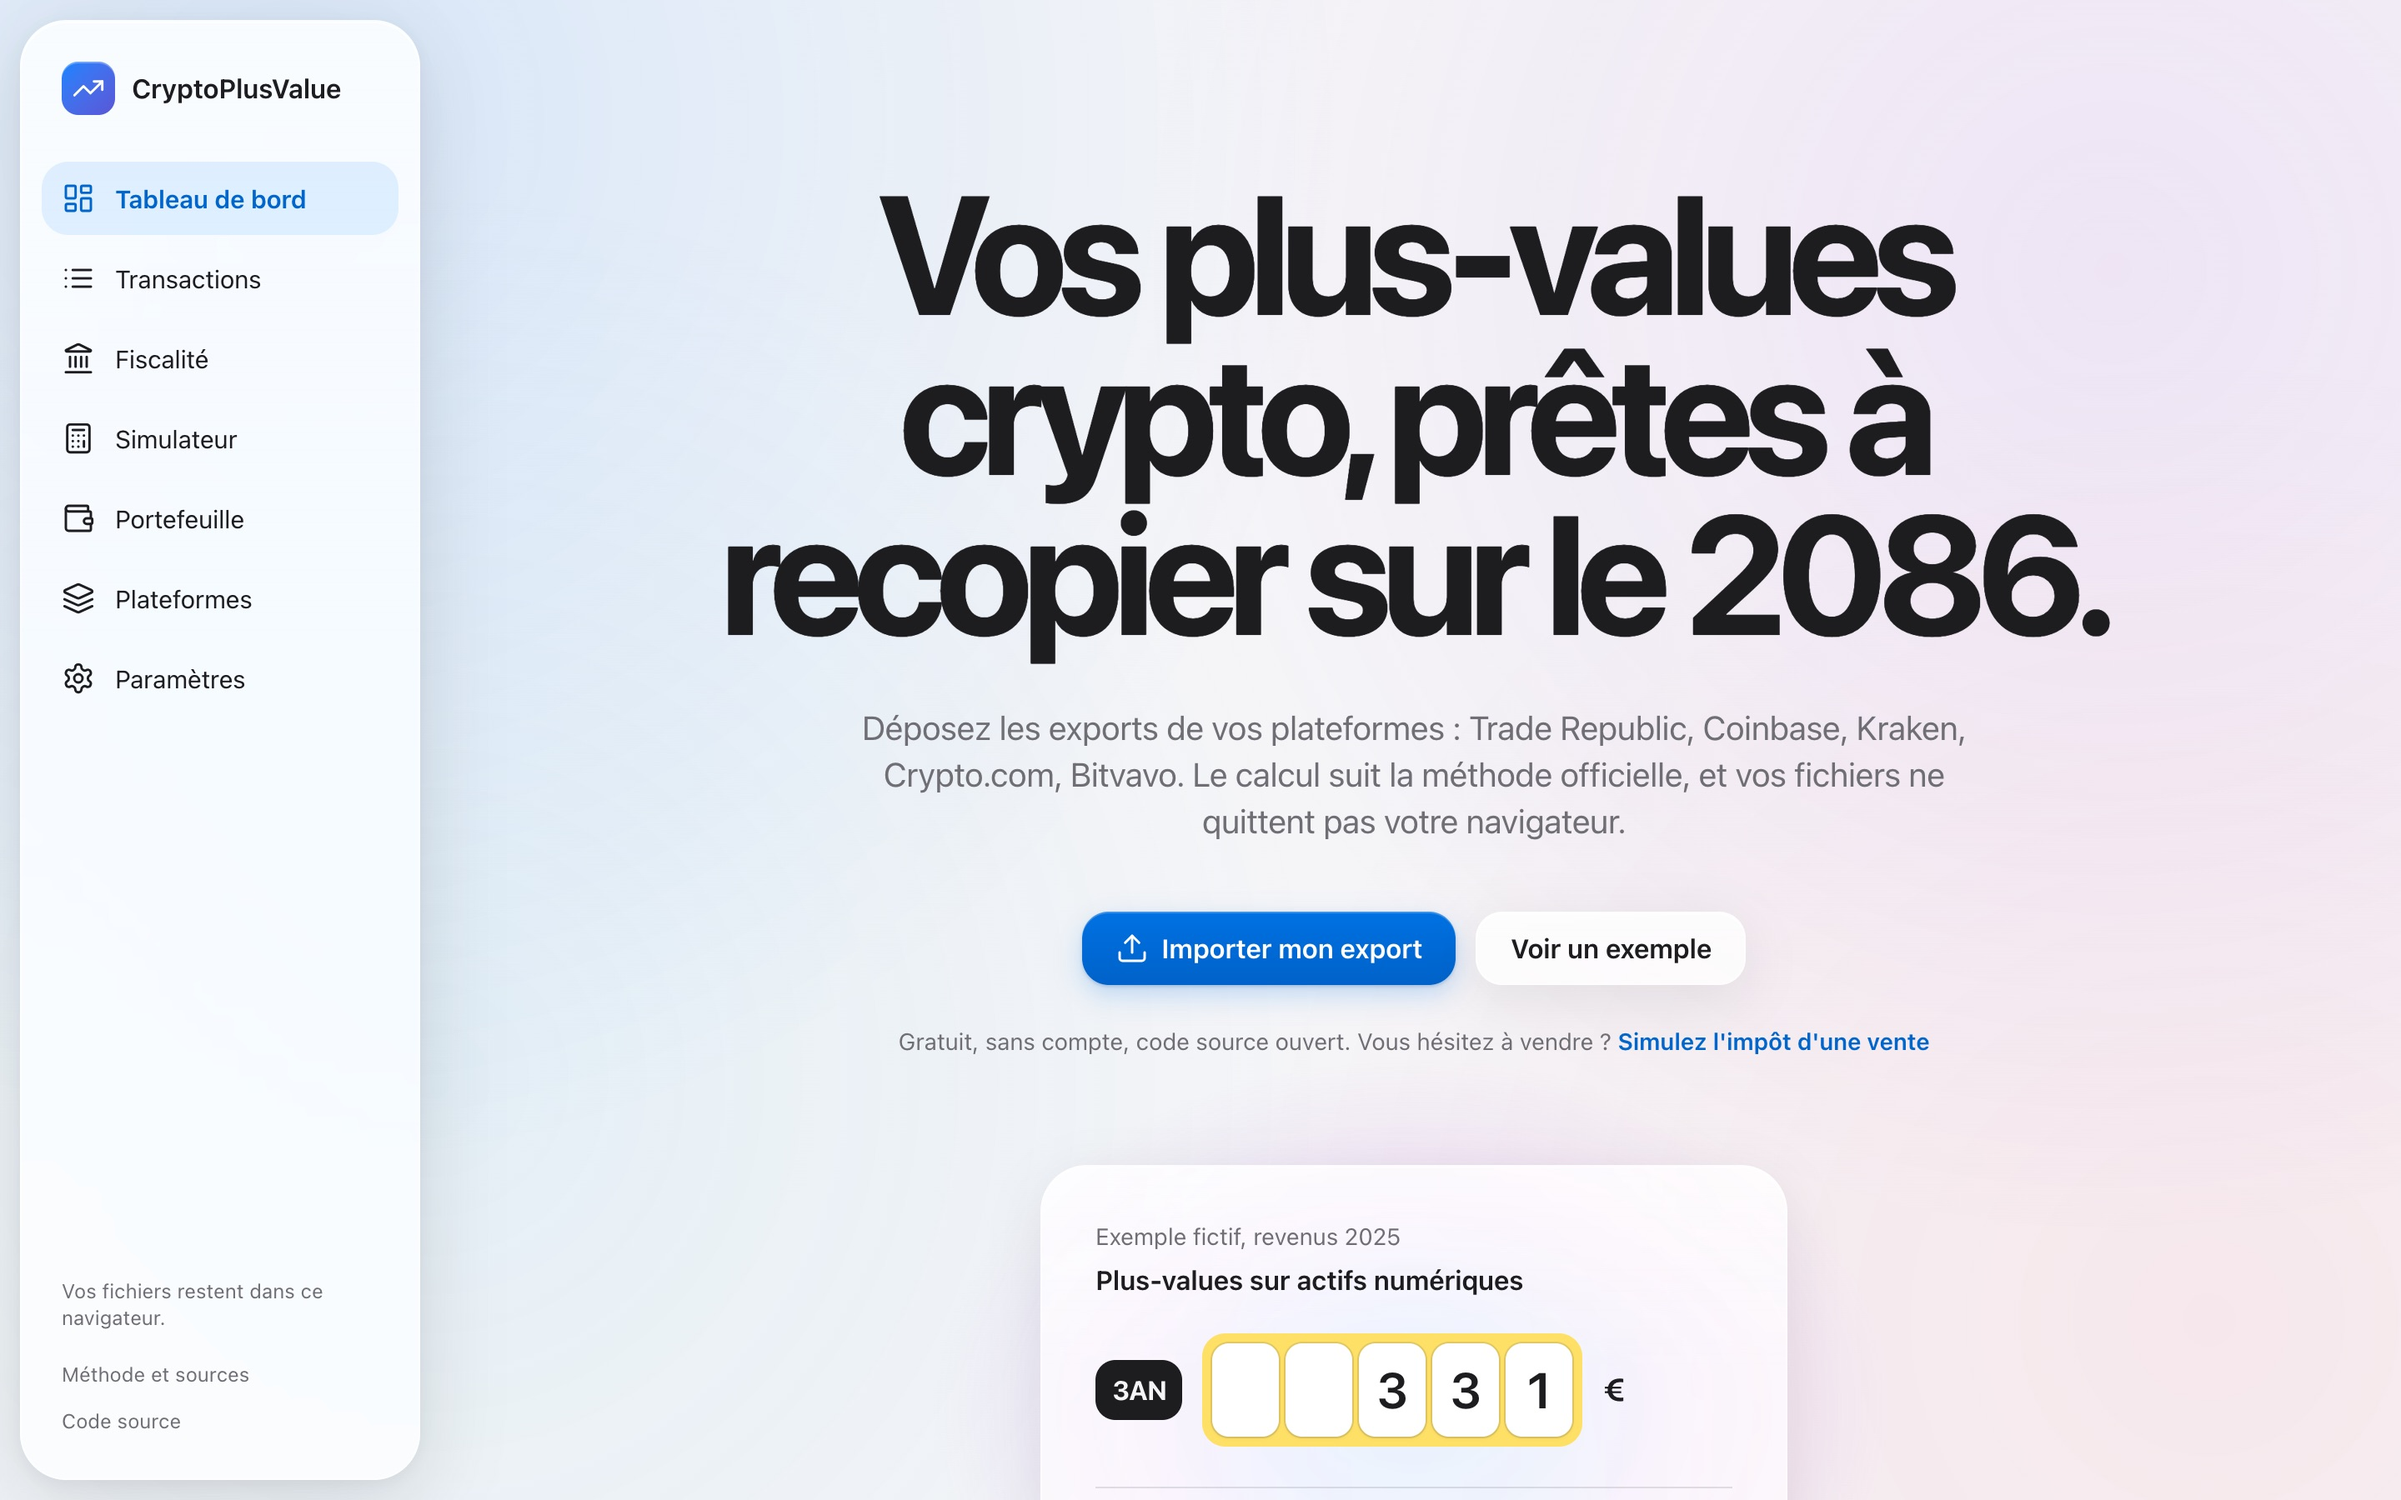
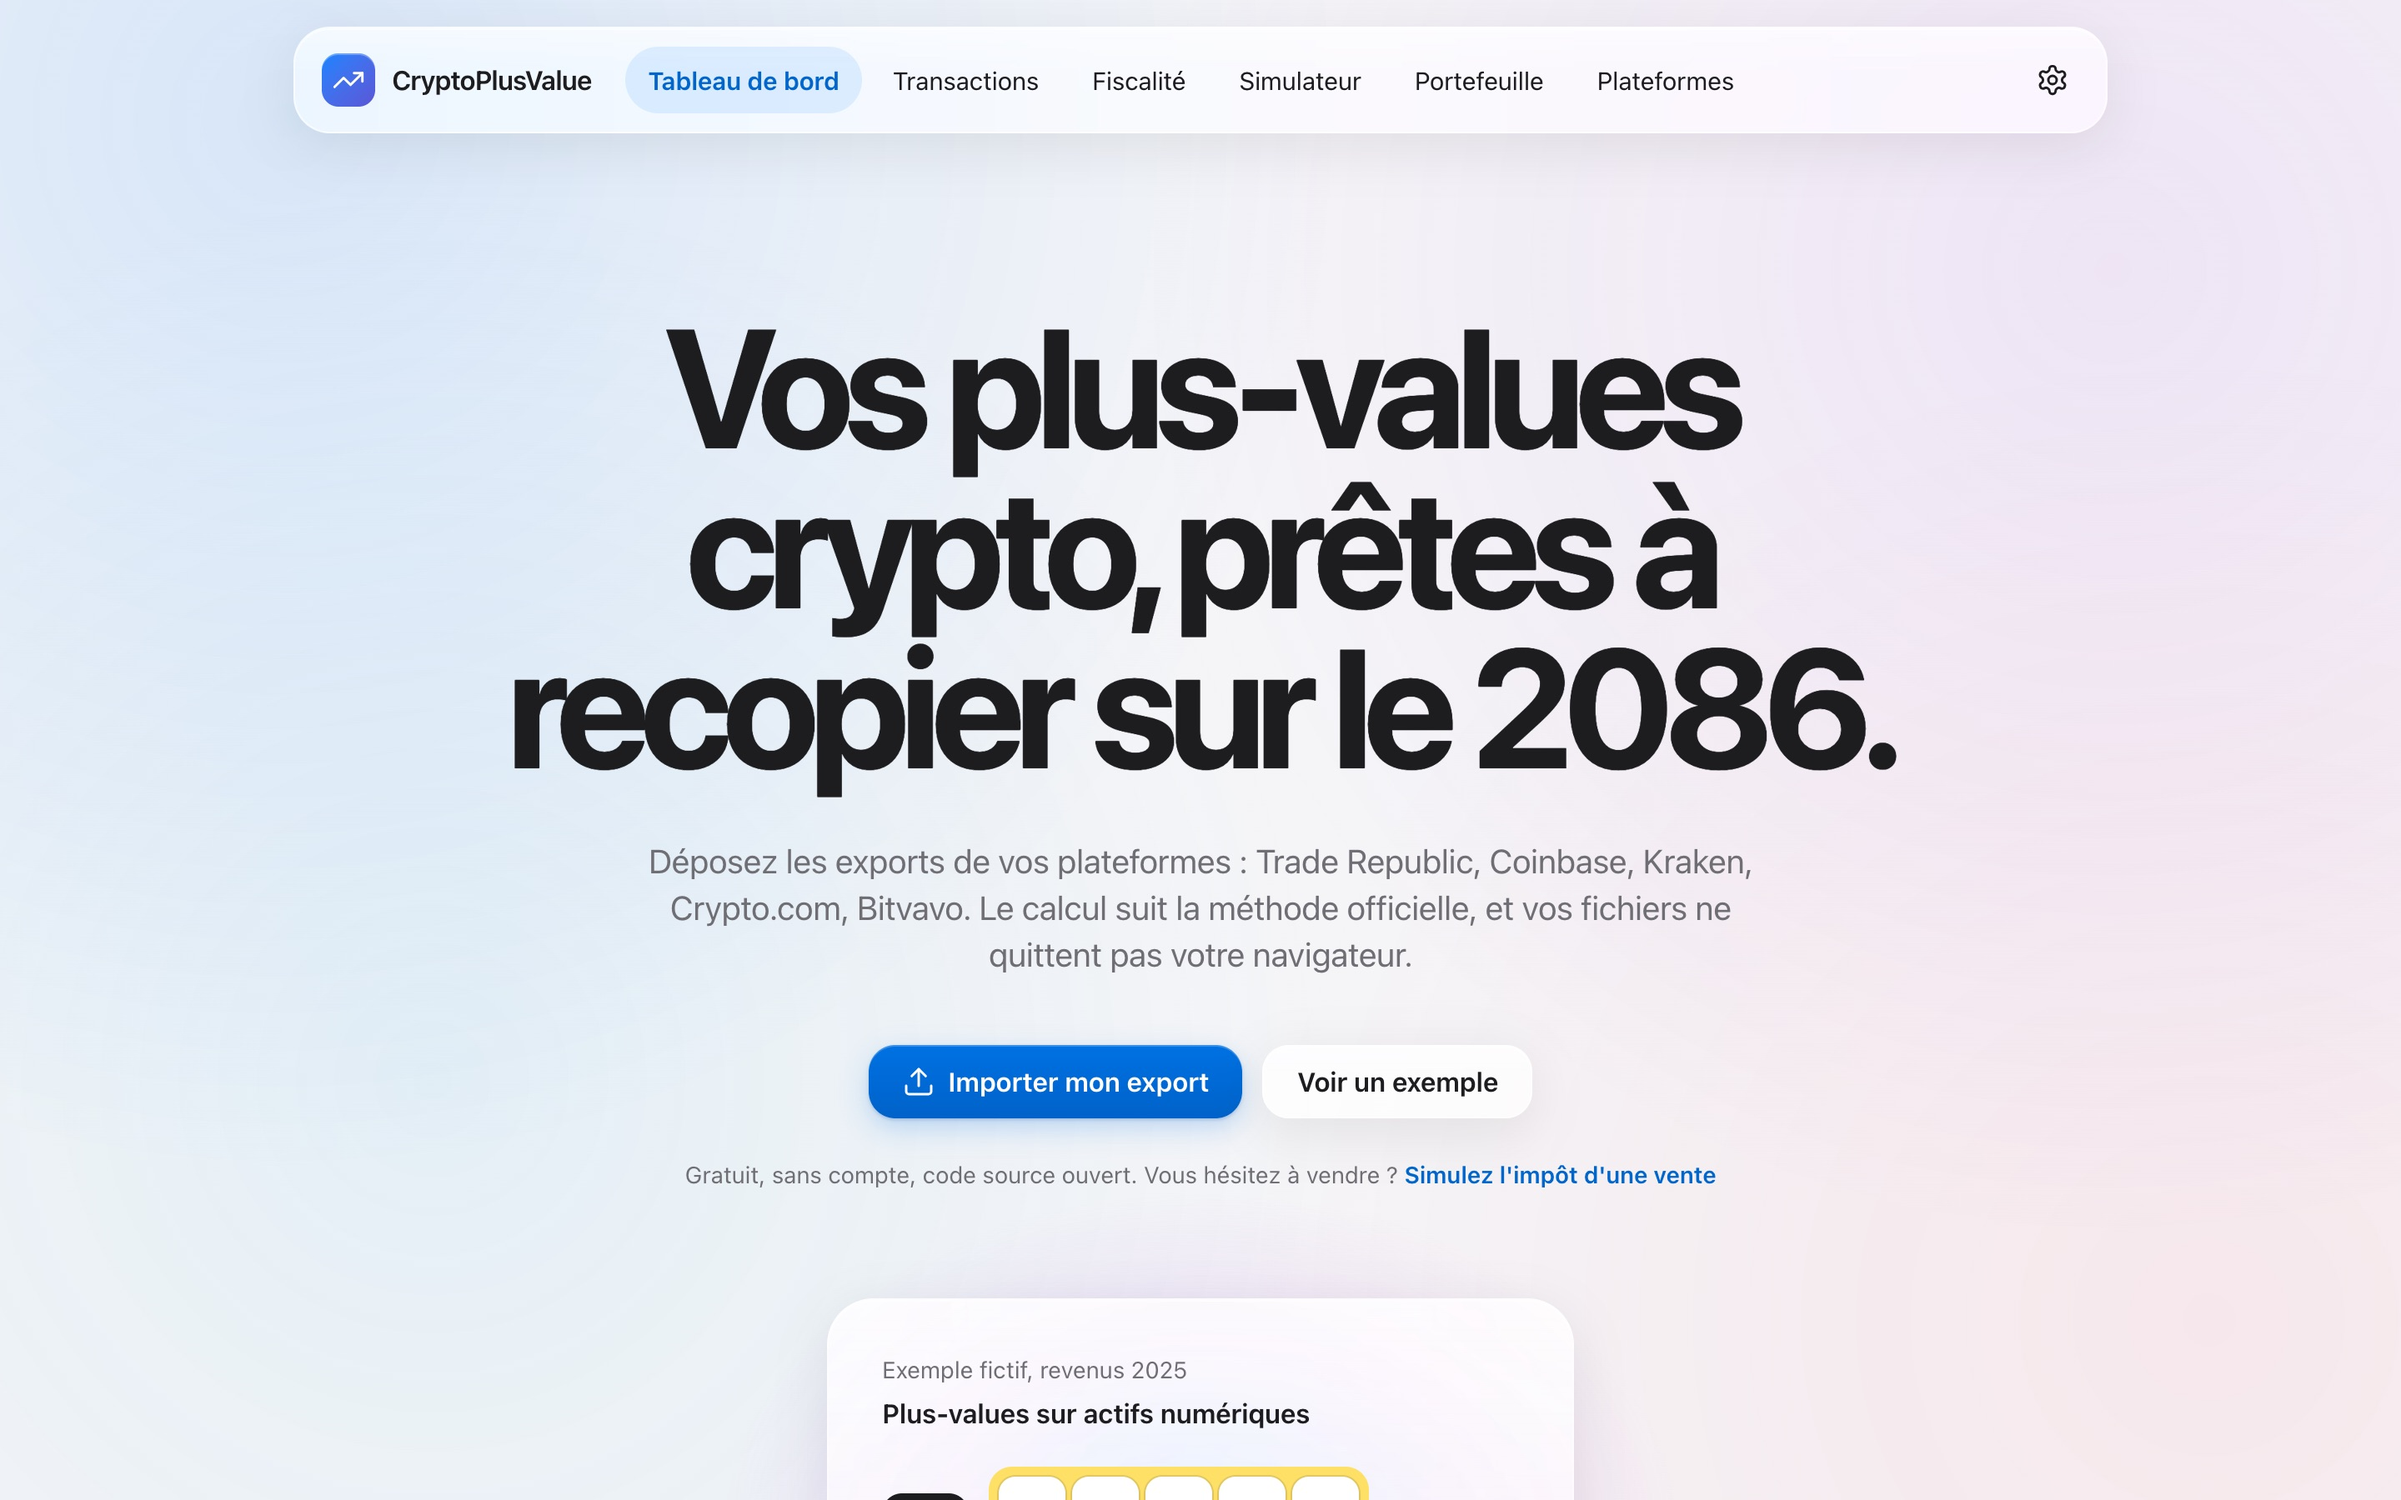
Navigation en haut sur ordinateur, à la place de la barre latérale

diff --git a/app/components/AppTopBar.vue b/app/components/AppTopBar.vue
@@ -1,7 +1,15 @@
 <script setup lang="ts">
-/** En-tête des petits écrans : la marque, et le rappel du mode démonstration. */
+/**
+ * Barre du haut, en verre, qui reste visible au défilement. Sur ordinateur, elle porte la
+ * navigation : la marque, les sections, et les paramètres à droite. Sur téléphone, la marque
+ * et le rappel du mode démonstration ; les sections sont dans la barre d'onglets du bas.
+ */
 const store = usePortfolioStore()
+const route = useRoute()
 const scrolled = ref(false)
+
+const sections = NAVIGATION.filter((item) => item.to !== '/parametres')
+const settings = NAVIGATION.find((item) => item.to === '/parametres')
 
 function onScroll() {
   scrolled.value = window.scrollY > 8
@@ -15,23 +23,63 @@ onBeforeUnmount(() => window.removeEventListener('scroll', onScroll))
 </script>
 
 <template>
-  <header class="sticky top-0 z-30 px-3 pt-[max(0.75rem,env(safe-area-inset-top))] lg:hidden">
+  <header
+    class="sticky top-0 z-30 mx-auto max-w-[72rem] px-3 pt-[max(0.75rem,env(safe-area-inset-top))] sm:px-8 lg:pt-4"
+  >
+    <!-- Mêmes marges que le contenu : la barre s'aligne sur les cartes de la page. -->
     <div
-      class="flex h-14 items-center justify-between gap-3 rounded-[22px] px-4 transition-[background,box-shadow,backdrop-filter] duration-300 ease-ios"
+      class="flex h-14 items-center gap-3 rounded-[22px] px-4 transition-[background,box-shadow,backdrop-filter] duration-300 ease-ios sm:px-3 lg:h-16 lg:gap-4"
       :class="scrolled ? 'glass-floating' : 'glass'"
     >
-      <NuxtLink to="/" class="flex items-center gap-2.5 font-semibold tracking-tight">
+      <NuxtLink
+        to="/"
+        class="flex shrink-0 items-center gap-2.5 rounded-control font-semibold tracking-tight sm:px-1"
+      >
         <span
-          class="flex size-7 items-center justify-center rounded-[9px] bg-linear-to-br from-[#0a84ff] to-[#5856d6] text-white shadow-[inset_0_1px_0_rgb(255_255_255/0.3)]"
+          class="flex size-7 items-center justify-center rounded-[9px] bg-linear-to-br from-[#0a84ff] to-[#5856d6] text-white shadow-[inset_0_1px_0_rgb(255_255_255/0.3)] lg:size-8 lg:rounded-[10px]"
           aria-hidden="true"
         >
           <AppIcon name="trend" class="size-4" />
         </span>
         CryptoPlusValue
       </NuxtLink>
+
+      <nav aria-label="Navigation principale" class="hidden min-w-0 flex-1 lg:block">
+        <ul class="flex items-center gap-1">
+          <li v-for="item in sections" :key="item.to">
+            <NuxtLink
+              :to="item.to"
+              class="flex min-h-10 items-center rounded-full px-3 text-[15px] whitespace-nowrap transition-colors duration-200 xl:px-3.5"
+              :class="
+                route.path === item.to
+                  ? 'bg-accent-tint font-semibold text-link'
+                  : 'text-label hover:bg-field'
+              "
+            >
+              {{ item.label }}
+            </NuxtLink>
+          </li>
+          <li v-if="settings" class="ml-auto">
+            <NuxtLink
+              :to="settings.to"
+              class="flex size-10 items-center justify-center rounded-full transition-colors duration-200"
+              :class="
+                route.path === settings.to
+                  ? 'bg-accent-tint text-link'
+                  : 'text-label hover:bg-field'
+              "
+              :title="settings.label"
+            >
+              <AppIcon :name="settings.icon" />
+              <span class="sr-only">{{ settings.label }}</span>
+            </NuxtLink>
+          </li>
+        </ul>
+      </nav>
+
       <span
         v-if="store.demo"
-        class="rounded-full bg-warning-tint px-2.5 py-1 text-xs font-semibold text-warning"
+        class="ml-auto shrink-0 rounded-full bg-warning-tint px-2.5 py-1 text-xs font-semibold text-warning lg:hidden"
         >Démonstration</span
       >
     </div>

diff --git a/app/layouts/default.vue b/app/layouts/default.vue
@@ -1,7 +1,7 @@
 <script setup lang="ts">
 /**
- * Mise en page de toutes les pages : barre latérale sur ordinateur, barre d'onglets sur
- * téléphone. `?exemple` ouvre n'importe quelle page en mode démonstration ; sinon, les données
+ * Mise en page de toutes les pages : barre de navigation en haut sur ordinateur, barre
+ * d'onglets en bas sur téléphone. `?exemple` ouvre n'importe quelle page en mode démonstration ; sinon, les données
  * enregistrées dans ce navigateur sont relues, une fois la page affichée (avant, elles
  * différeraient de la page rendue par le serveur).
  */
@@ -28,16 +28,13 @@ onMounted(() => {
       Aller au contenu
     </a>
 
-    <AppSidebar />
     <AppTopBar />
 
-    <div class="lg:pl-64">
-      <main id="contenu" class="mx-auto max-w-[72rem] px-5 pt-6 pb-36 sm:px-8 lg:pt-10 lg:pb-16">
-        <DemoBanner />
-        <slot />
-      </main>
-      <AppFooter />
-    </div>
+    <main id="contenu" class="mx-auto max-w-[72rem] px-5 pt-6 pb-36 sm:px-8 lg:pt-10 lg:pb-16">
+      <DemoBanner />
+      <slot />
+    </main>
+    <AppFooter />
 
     <AppTabBar />
   </div>

diff --git a/app/utils/navigation.ts b/app/utils/navigation.ts
@@ -1,4 +1,4 @@
-/** Une section de l'application, dans la barre latérale et la barre d'onglets. */
+/** Une section de l'application, dans la barre du haut et la barre d'onglets. */
 export type NavItem = {
   to: string
   label: string
@@ -19,7 +19,7 @@ export const NAVIGATION: readonly NavItem[] = [
   { to: '/parametres', label: 'Paramètres', icon: 'settings' },
 ]
 
-/** Liens vers la documentation du dépôt, en bas de la navigation. */
+/** Liens vers la documentation du dépôt, dans le menu « Plus » du téléphone. */
 export const EXTERNAL_LINKS = [
   { href: docUrl('regles-fiscales'), label: 'Méthode et sources' },
   { href: REPOSITORY, label: 'Code source' },

diff --git a/app/pages/transactions.vue b/app/pages/transactions.vue
@@ -150,7 +150,7 @@ function exportCsv() {
 
       <div
         v-if="selected.size > 0"
-        class="glass-strong sticky top-20 z-20 flex flex-wrap items-center justify-between gap-3 rounded-card px-5 py-3 text-sm lg:top-6"
+        class="glass-strong sticky top-20 z-20 flex flex-wrap items-center justify-between gap-3 rounded-card px-5 py-3 text-sm lg:top-24"
       >
         <span class="font-semibold">
           {{ plural(selected.size, 'opération sélectionnée', 'opérations sélectionnées') }}

diff --git a/app/components/AppFooter.vue b/app/components/AppFooter.vue
@@ -6,7 +6,7 @@
       <p class="max-w-prose">
         CryptoPlusValue est un outil indépendant, sans lien avec l'administration fiscale. Ses
         résultats sont indicatifs et ne remplacent pas un conseil fiscal : vérifiez-les avant de
-        déclarer.
+        déclarer. Vos fichiers restent dans ce navigateur.
       </p>
       <p class="flex flex-wrap gap-x-6 gap-y-2">
         <a :href="docUrl('regles-fiscales')" class="hover:text-label hover:underline">

diff --git a/docs/design.md b/docs/design.md
@@ -93,8 +93,10 @@ Android. Rien à télécharger.
 
 ## Navigation
 
-- **Ordinateur et grande tablette** (1 024 px et plus) : barre latérale en verre, fixe, avec les
-  six sections et, en bas, le rappel que les fichiers restent dans le navigateur.
+- **Ordinateur et grande tablette** (1 024 px et plus) : barre de navigation en haut, en verre,
+  qui reste visible au défilement et devient plus opaque dès qu'on descend. La marque à gauche,
+  les six sections en libellés seuls (la section ouverte en pastille bleue), les paramètres en
+  icône à droite. Ses marges sont celles du contenu : elle s'aligne sur les cartes de la page.
 - **Téléphone et petite tablette** : barre d'onglets en verre en bas de l'écran, comme sur iOS,
   avec quatre onglets (Accueil, Opérations, Fiscalité, Simuler) et « Plus » pour le reste ; en
   haut, la marque et le rappel du mode démonstration. L'encoche et la barre d'accueil des iPhone

diff --git a/README.md b/README.md
@@ -47,8 +47,8 @@ Importez l'historique de vos plateformes, obtenez les montants à reporter, cess
   année, période, montant, points à vérifier), tri, ajout d'une opération absente des exports,
   modification, suppression, annulation et journal des corrections, export CSV.
 - **Une application en plusieurs pages** (tableau de bord, transactions, fiscalité,
-  simulateur, portefeuille, plateformes), avec une barre latérale sur ordinateur et une barre
-  d'onglets sur téléphone.
+  simulateur, portefeuille, plateformes), avec une barre de navigation en haut sur ordinateur et une
+  barre d'onglets sur téléphone.
 - **Un mode démonstration** avec un exemple fictif, clairement signalé, pour essayer sans
   fichier.
 

diff --git a/CHANGELOG.md b/CHANGELOG.md
@@ -4,6 +4,11 @@ Les changements notables, du plus récent au plus ancien. Chaque entrée renvoie
 
 ## 9 octobre 2026
 
+### Navigation en haut sur ordinateur
+
+- La barre latérale laisse place à une barre de navigation en haut, en verre, alignée sur le
+  contenu : sections en libellés, paramètres en icône. Sur téléphone, les onglets restent en bas.
+
 ### Phase 5 (première partie) : sauvegarde chiffrée
 
 - Télécharger toutes ses données (opérations, cours, fichiers, corrections) dans un fichier
